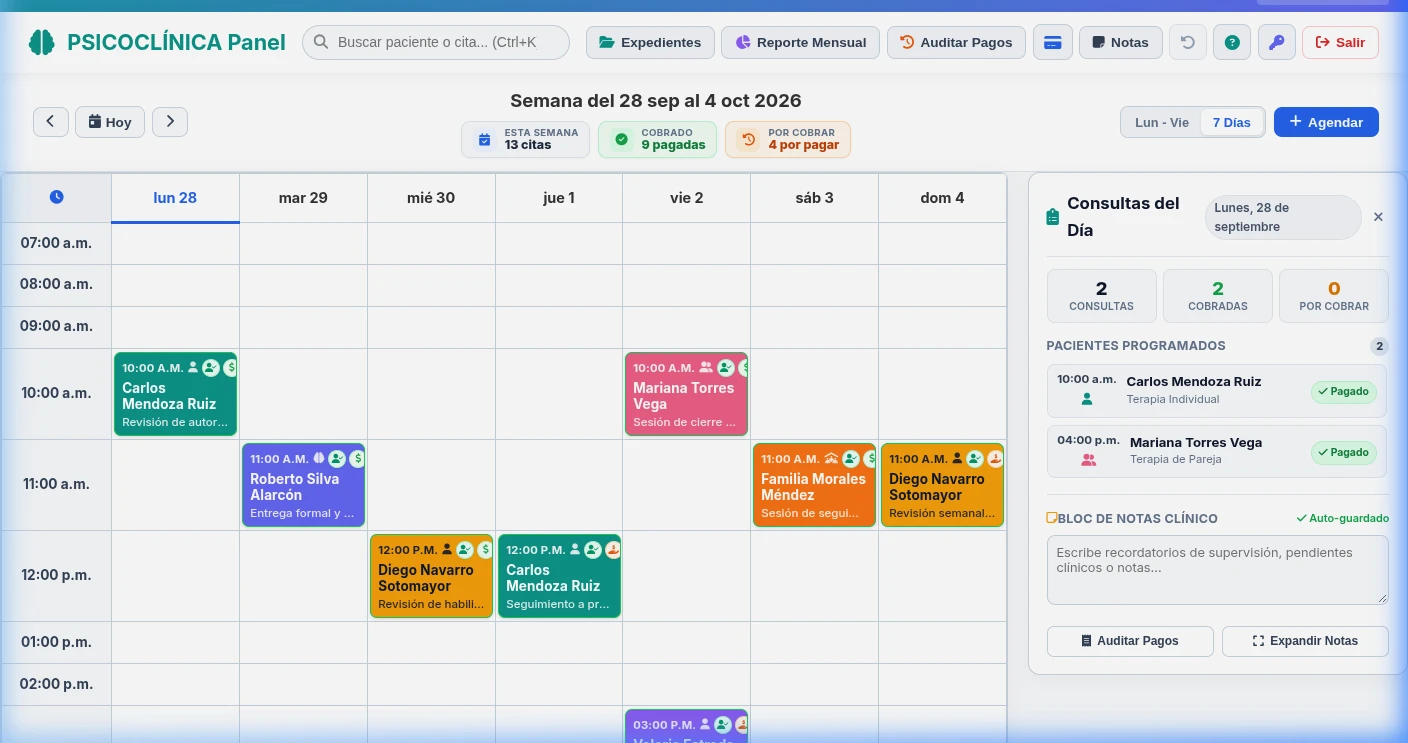
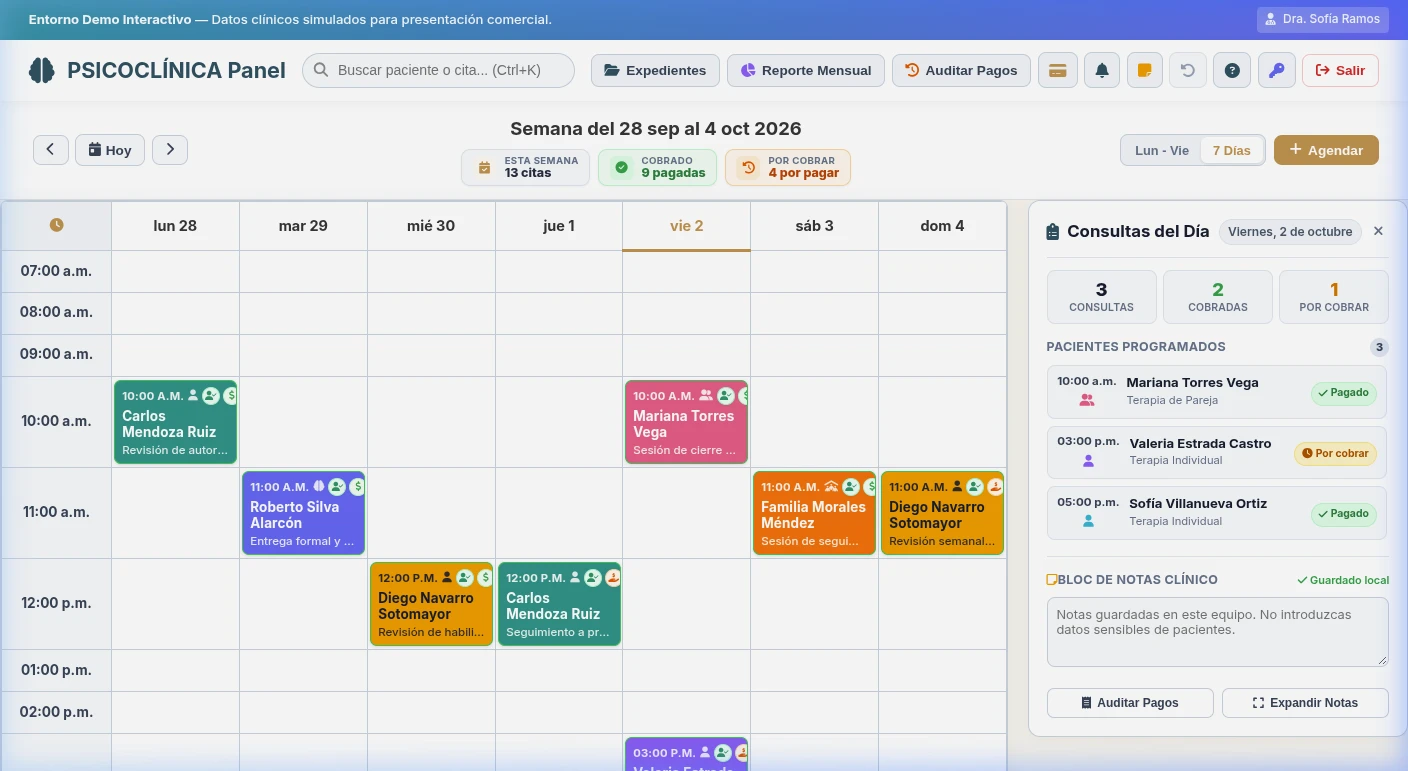
feat(hero): refresh live demo screenshots for clinical agenda and website, equalize dimensions to 1408x771 and bump cache to v=9.1

diff --git a/index.html b/index.html
@@ -505,11 +505,11 @@
             <!-- View 1: Clinical Agenda Real Screenshot -->
             <div class="hero-view-panel is-active" id="heroViewAgenda" role="tabpanel" aria-labelledby="heroTabAgenda">
               <div class="mockup-screenshot-wrapper">
-                <img src="assets/images/agenda-clinica-real.webp?v=9.0" 
+                <img src="assets/images/agenda-clinica-real.webp?v=9.1" 
                      alt="Agenda Clínica y Panel de Consultas de PsicoClínica — Software de Gestión Médica" 
                      class="mockup-screenshot-img" 
                      width="1408" 
-                     height="743" 
+                     height="771" 
                      loading="eager">
                 <div class="mockup-screenshot-badge">
                   <span class="pulse-indicator-dot"></span>
@@ -526,7 +526,7 @@
             <!-- View 2: Actual Web Demo Real Screenshot -->
             <div class="hero-view-panel" id="heroViewWeb" role="tabpanel" aria-labelledby="heroTabWeb">
               <div class="mockup-screenshot-wrapper">
-                <img src="assets/images/web-demo-actual.webp?v=9.0" 
+                <img src="assets/images/web-demo-actual.webp?v=9.1" 
                      alt="Sitio Web Profesional de PsicoClínica — Demostración de Presencia Digital para Terapeutas" 
                      class="mockup-screenshot-img" 
                      width="1408" 

diff --git a/overview/architecture.md b/overview/architecture.md
@@ -10,7 +10,7 @@ graph TD
         Partials[partials/: header, header-privacy, footer] -->|scripts/sync-partials.js| StaticHost[Frontend Estático: index.html, aviso-de-privacidad.html & comparativa-doctoralia.html]
         ValidationUtils[js/validation-utils.js] -->|Funciones puras de validación| FormHandler[js/form-handler.js]
         SavingsModule[js/modules/savings-calculator.js] -->|Cálculo reactivo de ROI y ahorro| SavingsUI[Sección: #savings-calculator]
-        ValidationUtils -->|Unit Tests| NodeTest[node:test & node:assert Suite: 40 tests]
+        ValidationUtils -->|Unit Tests| NodeTest[node:test & node:assert Suite: 41 tests]
         SavingsModule -->|Math & ROI Unit Tests| NodeTest
         StaticHost -->|Link Integrity, Asset Ownership & Module Tests| NodeTest
         CSSFiles[css/: Design Tokens] -->|Token Consistency Tests| NodeTest
@@ -55,7 +55,7 @@ graph TD
 - **Módulo de Precios Transparentes (`css/components/pricing.css`):** Desglose claro de paquetes ($4,800 y $5,900 MXN), esquema 50/50, dominio al costo Cloudflare y tiempo de entrega de 48-72h a 3-5 días *(04-Sep-2026)*.
 - **Mockup Interactivo Suite SaaS Clínico:** Pestañas interactivas en JS Vanilla para demostración funcional (Agenda, Expedientes, Cobranza, Contable) con 100% iconografía vectorial SVG y cero emojis de sistema *(04-Sep-2026)*.
 - **Modularización DRY de Componentes Compartidos (`partials/` & `scripts/sync-partials.js`):** Header y Footer abstraídos como componentes individuales inyectados automáticamente mediante marcadores HTML delimitados, eliminando duplicación de código sin añadir dependencias ni bundlers *(08-Sep-2026)*.
-- **Zero-Dependency Testing con Node.js Nativo (`tests/`):** Suite de 40 pruebas automatizadas con `node:test` y `node:assert` para validación de formularios/XSS, integridad de hipervínculos/anclas, consistencia de tokens CSS, calculadora matemática/ROI, copy institucional y metadatos SEO en <100ms *(28-Sep-2026)*.
+- **Zero-Dependency Testing con Node.js Nativo (`tests/`):** Suite de 41 pruebas automatizadas con `node:test` y `node:assert` para validación de formularios/XSS, integridad de hipervínculos/anclas, consistencia de tokens CSS, calculadora matemática/ROI, copy institucional y metadatos SEO en <100ms *(28-Sep-2026)*.
 - **Git Governance Estricto:** Políticas formales de control de versiones que impiden commits automáticos de IA sin aprobación explícita previa del usuario *(08-Sep-2026)*.
 - **Blindaje Serverless & Anti-Spam Zero-Dependency (`functions/api/contact.js`):** Restricción estricta de CORS a orígenes propios, trampa Honeypot invisible para descarte silencioso de bots sin requerir CAPTCHAs pesados, validación backend redundante y enmascaramiento de trazas de excepción interna *(23-Sep-2026)*.
 - **Modularización CSS de Privacidad y Purgado de Assets:** Extracción de estilos a `css/components/privacy.css`, eliminación de `@import` bloqueante de Google Fonts y purgado de 7 imágenes huérfanas (~580 KB) *(23-Sep-2026)*.
@@ -65,6 +65,8 @@ graph TD
 - **Hero Asimétrico de 2 Columnas con Mockup Clínico Interactivo y Botón FAB Móvil:** Hero con ventana de interfaz activa (Agenda semanal y caso PsicoLau) en desktop y botón flotante de WhatsApp (`.fab-whatsapp`) exclusivo en vista móvil *(28-Sep-2026)*.
 - **Suite de Conversión & Calculadora Interactiva de Ahorro y ROI (`js/modules/savings-calculator.js`):** Módulo de cálculo puro y amortización real a 3 años, estado consultivo protector para evitar promesas de ROI imposibles, y selector interactivo de intención en contacto (Preguntas Rápidas vs Demostración Consultiva en Pantalla Compartida) *(28-Sep-2026)*.
 - **Soberanía de Datos vs Software Clínico Gestionado:** Delimitación formal de propiedad de activos: el sitio web, dominio y expedientes clínicos (NOM-004-SSA3) son 100% propiedad del cliente y exportables, mientras que el panel opera como software gestionado en la nube con mantenimiento y seguridad continuos *(28-Sep-2026)*.
-- **Asset Cache-Busting a Nivel de Edge (`v=8.0`):** Inyección de versiones query string `?v=8.0` en todos los archivos CSS, JS e imágenes del Hero para forzar la invalidación inmediata de caché de navegador tras despliegues en Cloudflare Pages *(28-Sep-2026)*.
+- **Confianza Operativa y Deslinde de Infraestructura en la Nube (Feature 023):** Respaldos periódicos en la nube con entrega sin trabas de expedientes/pacientes en formato estándar (CSV / hoja de cálculo) a solicitud. Deslinde explícito entre la web pública en Cloudflare Pages ($0/mes) y el panel clínico en servidores dedicados en la nube con soporte 1 a 1 ($499/mes). Purga preventiva de compromisos fiscales prematuros (CFDI) *(28-Sep-2026)*.
+- **Asset Cache-Busting a Nivel de Edge (`v=9.0`):** Inyección de versiones query string `?v=9.0` en todos los archivos CSS, JS e imágenes del Hero para forzar la invalidación inmediata de caché de navegador y CDN tras despliegues en Cloudflare Pages *(28-Sep-2026)*.
+
 
 

diff --git a/overview/session.md b/overview/session.md
@@ -92,19 +92,27 @@
    - Sincronizados `index.html`, `comparativa-doctoralia.html` y `aviso-de-privacidad.html`.
    - Versión de `package.json` incrementada a `5.3.0`.
    - **41/41 pruebas pasando al 100% en verde con `npm test`**.
+   - Commit `f7cb895` y push a `origin/main` en GitHub completados exitosamente.
+
+10. **Actualización de Capturas Reales del Hero Mockup (Web Demo y Agenda Clínica):**
+    - **Sitio Web Demo (`demo.cristhianruiz.dev`):** Se capturó en alta resolución (1408 × 771 px) la página de inicio actualizada reflejando la nueva identidad visual de PsicoClínica (paleta cálida arena/dorado, logotipo de silueta estilizada y nuevos botones de acción).
+    - **Agenda Clínica (`demo.cristhianruiz.dev/panel/`):** Se capturó la interfaz viva del panel clínico tras acceso rápido en 1 clic, incorporando el cintillo oficial del entorno demo interactivo, botón dorado *«+ Agendar»* y el panel lateral de consultas y bloc de notas.
+    - **Optimización WebP y Erradicación de CLS:** Ambas capturas convertidas a WebP progresivo (calidad 90), unificando las dimensiones en 1408 × 771 px y garantizando cero saltos de diseño (CLS) al alternar pestañas en el Hero.
+    - **Cache-Busting declarativo:** Incrementada la versión de las imágenes en [index.html](file:///home/cris/Documentos/Proyectos/Pagina%20web%20CrisDev%20-%20clientes/index.html) a `?v=9.1`.
+    - **Validación Automatizada y Visual:** **41/41 tests pasando al 100% en verde**, validado con subagente en desktop y mobile con 0 errores y 0 advertencias de consola.
+    - Versión de `package.json` incrementada a `5.3.1`.
 
 ## En qué quedó el proyecto
 
 - **Features 001 a 023:** Todas especificadas, implementadas, probadas y validadas al 100%.
-- **Caché de Producción:** Cache-busting actualizado a nivel de assets (`v=9.0`) listo para invalidar cachés agresivas en CDN/Cloudflare.
+- **Hero Mockup:** Capturas actualizadas de Web Demo y Agenda Clínica sincronizadas con la versión 5.3.1 (`?v=9.1`).
 - **Suite de Pruebas:** 41/41 tests unitarios e integrales en verde (`npm test`).
-- **Servidor local:** Activo y validado.
-- **Git Status:** Listo para autorización de commit y push por parte del usuario.
+- **Git Status:** Rama `main` lista para commit y push autorizados por el usuario.
 
 ## Próximo paso
 
-1. Solicitar autorización explícita para commit y push a `origin/main`.
-2. Realizar despliegue y verificar que Cloudflare Pages propague la versión 5.3.0 (`?v=9.0`).
+1. Ejecutar `git commit` y `git push` a `origin/main`.
+2. Verificar la propagación en Cloudflare Pages de la versión 5.3.1 (`?v=9.1`).
 
 
 

diff --git a/overview/tasks.md b/overview/tasks.md
@@ -1,5 +1,5 @@
 # Tareas — CrisDev (`cristhianruiz.dev`)
-Estado general: Features 001 a 012 completadas y desplegadas en producción.
+Estado general: Features 001 a 023 completadas y desplegadas en producción.
 
 Referencia principal: `specs/001-landing-page-crisdev/tasks.md` a `specs/006-optimizacion-arquitectura-calidad-testing/tasks.md`
 
